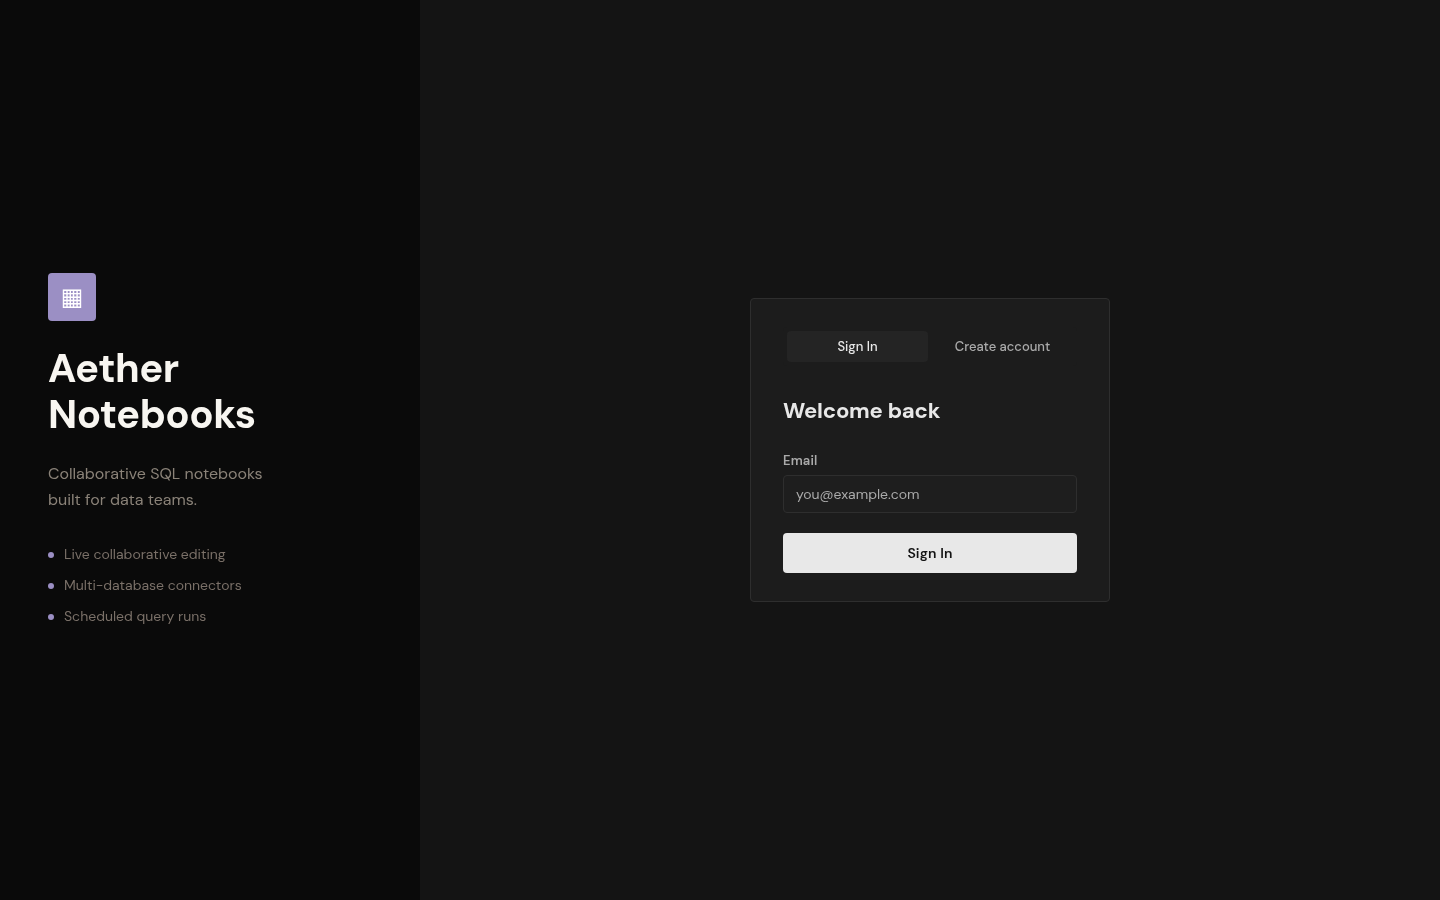
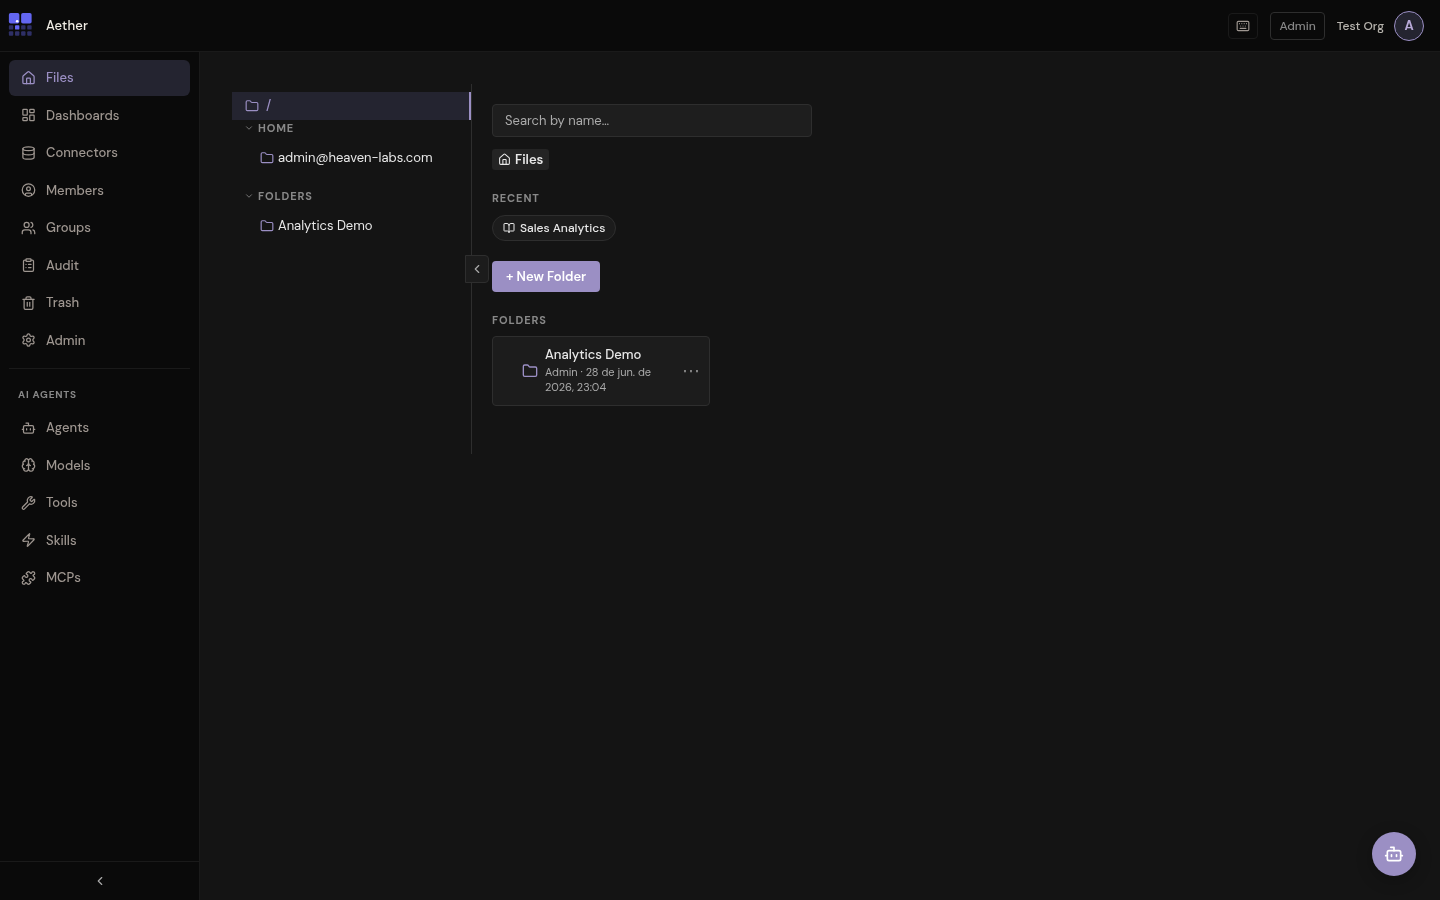
docs: fix README screenshots - use actual product views

diff --git a/README.md b/README.md
@@ -36,20 +36,12 @@
 
 <table>
   <tr>
-    <td><img src="readme-screenshots/notebook-sql.png" alt="Notebook with SQL cell" width="100%"></td>
+    <td><img src="readme-screenshots/notebook-sql.png" alt="Notebook with SQL and markdown" width="100%"></td>
     <td><img src="readme-screenshots/home-light.png" alt="File browser" width="100%"></td>
   </tr>
   <tr>
-    <td align="center"><em>SQL notebook with markdown headers</em></td>
-    <td align="center"><em>File browser with folders and notebooks</em></td>
-  </tr>
-  <tr>
-    <td><img src="readme-screenshots/notebook-dark.png" alt="Notebook (dark theme)" width="100%"></td>
-    <td><img src="readme-screenshots/dashboards-light.png" alt="Dashboards" width="100%"></td>
-  </tr>
-  <tr>
-    <td align="center"><em>Dark theme support</em></td>
-    <td align="center"><em>Dashboard builder</em></td>
+    <td align="center"><em>SQL notebook with markdown headers and syntax highlighting</em></td>
+    <td align="center"><em>File browser with folder hierarchy and recent items</em></td>
   </tr>
 </table>
 
